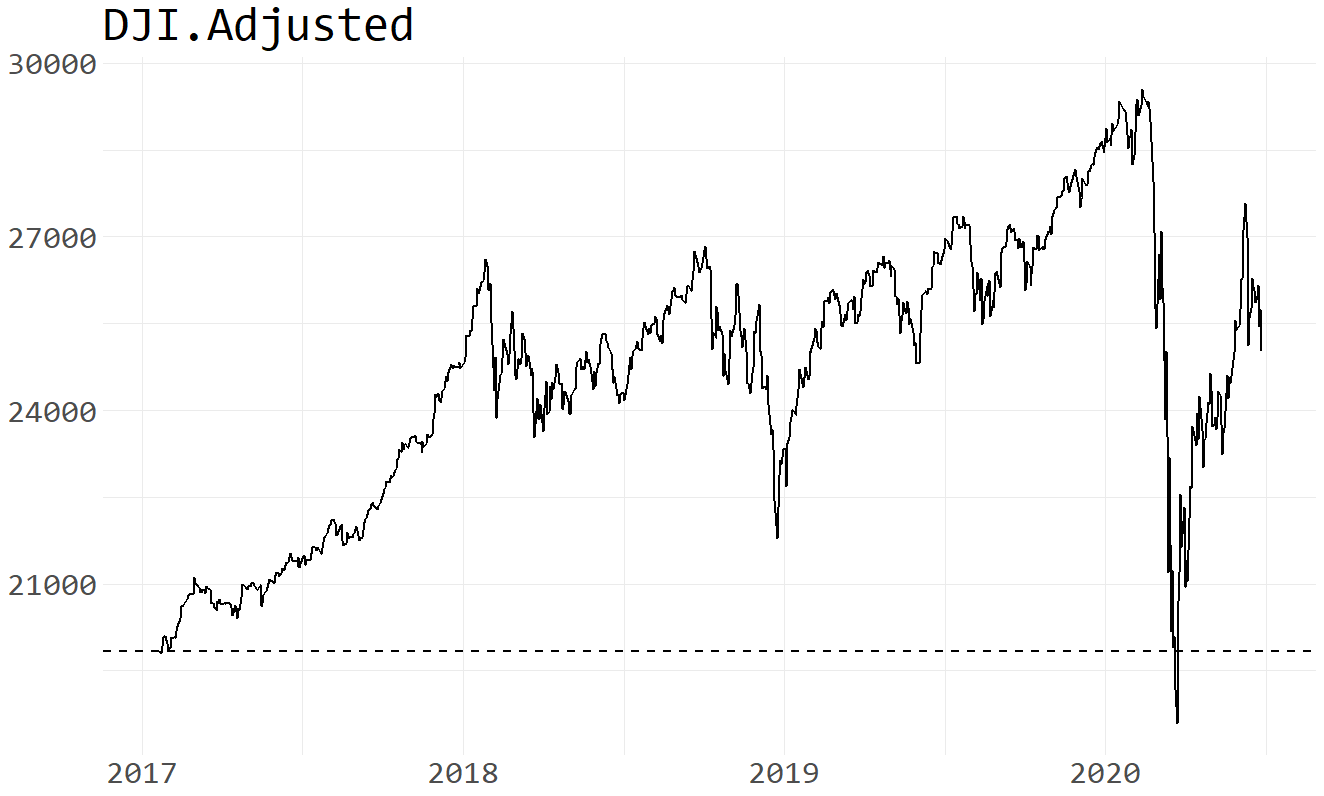
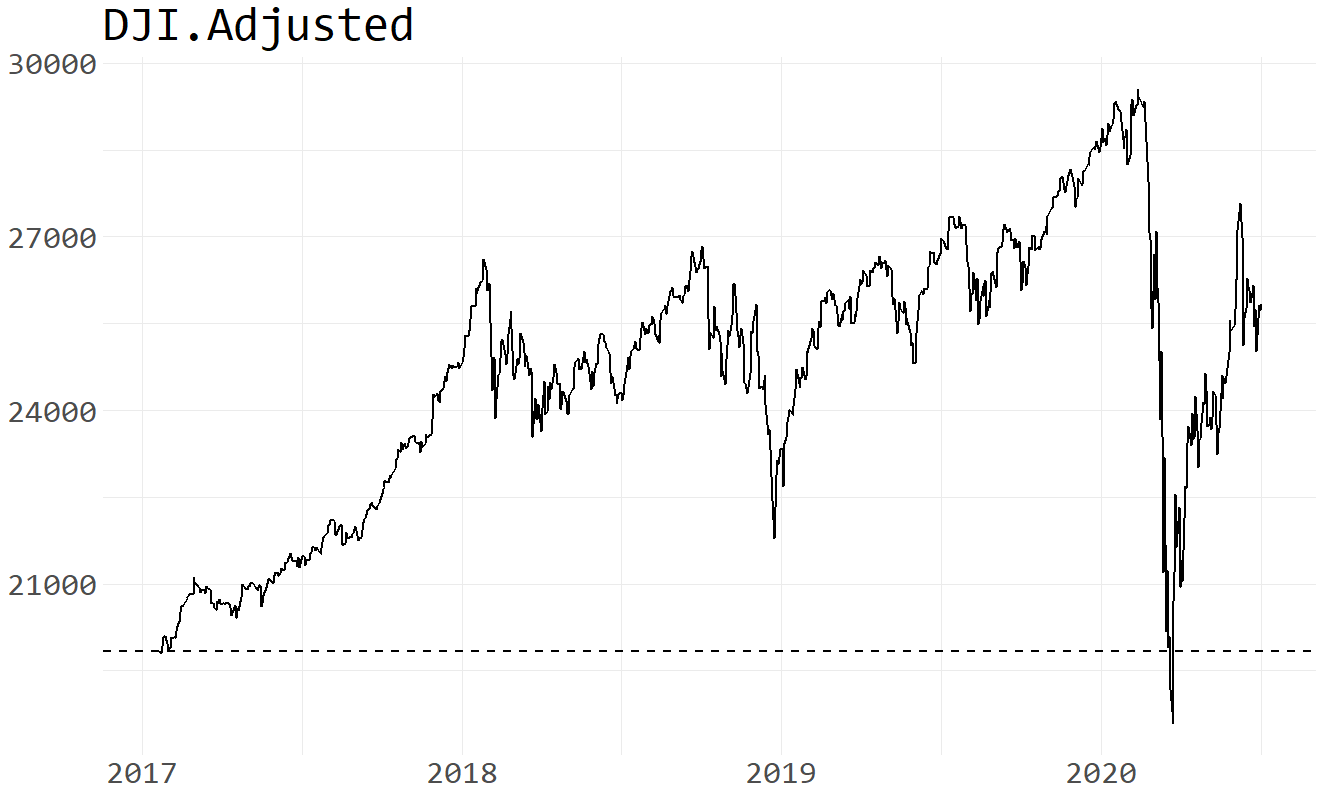
Add files via upload

diff --git a/thedowjonesindustrialaverage.md b/thedowjonesindustrialaverage.md
@@ -1,7 +1,7 @@
 The Dow Jones Industrial Average
 ================
 <https://am-consulting.co.jp> , <https://twitter.com/amc_corporation>
-2020-06-27 11:17:20 JST
+2020-07-04 10:03:10 JST
 
     $quantmod
     [1]  0  4 17
@@ -10,7 +10,7 @@ The Dow Jones Industrial Average
     [1] 0 8 5
     
     $ggplot2
-    [1] 3 3 1
+    [1] 3 3 2
     
     $tidyr
     [1] 1 1 0
@@ -56,12 +56,12 @@ tail(dji0)
 
 ``` 
            Date DJI.Open DJI.High  DJI.Low DJI.Close DJI.Volume DJI.Adjusted
-3390 2020-06-19 26213.10 26451.44 25759.66  25871.46  669390000     25871.46
-3391 2020-06-22 25865.08 26059.81 25667.68  26024.96  351780000     26024.96
-3392 2020-06-23 26159.39 26314.97 26105.97  26156.10  389980000     26156.10
-3393 2020-06-24 25992.96 25992.96 25296.73  25445.94  450120000     25445.94
 3394 2020-06-25 25365.22 25769.61 25209.79  25745.60  384560000     25745.60
 3395 2020-06-26 25641.69 25641.69 24971.03  25015.55  640860000     25015.55
+3396 2020-06-29 25152.45 25601.15 25096.16  25595.80  378070000     25595.80
+3397 2020-06-30 25512.43 25905.38 25475.14  25812.88  410780000     25812.88
+3398 2020-07-01 25879.38 26019.31 25713.61  25734.97  373180000     25734.97
+3399 2020-07-02 25936.45 26204.41 25778.12  25827.36  349130000     25827.36
 ```
 
 ## Adjusted price
@@ -73,12 +73,12 @@ tail(dji)
 
 ``` 
            Date DJI.Adjusted
-3390 2020-06-19     25871.46
-3391 2020-06-22     26024.96
-3392 2020-06-23     26156.10
-3393 2020-06-24     25445.94
 3394 2020-06-25     25745.60
 3395 2020-06-26     25015.55
+3396 2020-06-29     25595.80
+3397 2020-06-30     25812.88
+3398 2020-07-01     25734.97
+3399 2020-07-02     25827.36
 ```
 
 ## Highest price
@@ -167,14 +167,14 @@ trump %>% {rbind(head(.,1),tail(.,1))}
 ``` 
           Date DJI.Adjusted
 1   2017-01-20     19827.25
-865 2020-06-26     25015.55
+869 2020-07-02     25827.36
 ```
 
 ``` r
 trump[,2] %>% {(tail(.,1)/head(.,1)-1)*100} %>% signif(7) %>% paste0('%')
 ```
 
-    [1] "26.16753%"
+    [1] "30.26193%"
 
 #### Percentage change from November 9, 2016
 
@@ -186,14 +186,14 @@ trump20161109
 ``` 
         Date DJI.Adjusted
 1 2016-11-09     18589.69
-2 2020-06-26     25015.55
+2 2020-07-02     25827.36
 ```
 
 ``` r
 trump20161109[,2] %>% {(tail(.,1)/head(.,1)-1)*100} %>% signif(7) %>% paste0('%')
 ```
 
-    [1] "34.5668%"
+    [1] "38.93379%"
 
 ## Compare difference between Obama and Trump
 
@@ -282,12 +282,12 @@ tail(trump)
 
 ``` 
            Date DJI.Adjusted change up down even
-3390 2020-06-19     25871.46  -0.80  0    1    0
-3391 2020-06-22     26024.96   0.59  1    0    0
-3392 2020-06-23     26156.10   0.50  1    0    0
-3393 2020-06-24     25445.94  -2.72  0    1    0
 3394 2020-06-25     25745.60   1.18  1    0    0
 3395 2020-06-26     25015.55  -2.84  0    1    0
+3396 2020-06-29     25595.80   2.32  1    0    0
+3397 2020-06-30     25812.88   0.85  1    0    0
+3398 2020-07-01     25734.97  -0.30  0    1    0
+3399 2020-07-02     25827.36   0.36  1    0    0
 ```
 
 ###### Highest appreciation rate
@@ -367,8 +367,8 @@ tableObservation
 ``` 
         Up Down Total
 Obama 1080  925  2005
-Trump  480  379   859
-Total 1560 1304  2864
+Trump  483  380   863
+Total 1563 1305  2868
 ```
 
 ``` r
@@ -377,9 +377,9 @@ tableExpectation
 
 ``` 
         Up Down Total
-Obama 1092  913  2005
-Trump  468  391   859
-Total 1560 1304  2864
+Obama 1093  912  2005
+Trump  470  393   863
+Total 1563 1305  2868
 ```
 
 ``` r
@@ -391,8 +391,8 @@ cross_data0
   POTUS Change frequency
 1 Obama     Up      1080
 2 Obama   Down       925
-3 Trump     Up       480
-4 Trump   Down       379
+3 Trump     Up       483
+4 Trump   Down       380
 ```
 
 ``` r
@@ -404,7 +404,7 @@ cross_data
        Change
 POTUS   Down   Up
   Obama  925 1080
-  Trump  379  480
+  Trump  380  483
 ```
 
 ``` r
@@ -416,7 +416,7 @@ chisq.test(cross_data,correct = F)
     Pearson's Chi-squared test
 
 data:  cross_data
-X-squared = 0.98315, df = 1, p-value = 0.3214
+X-squared = 1.0752, df = 1, p-value = 0.2998
 ```
 
 -----
